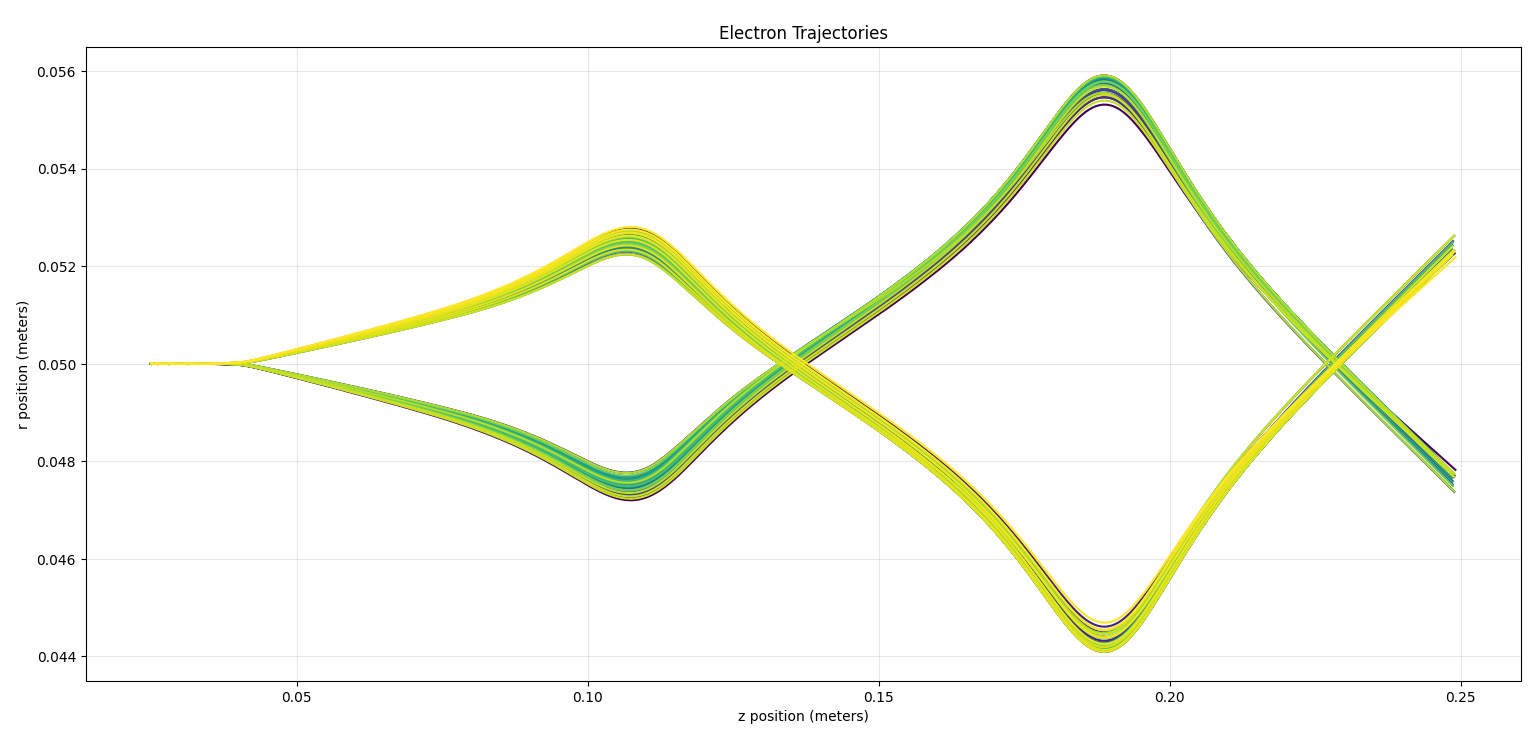
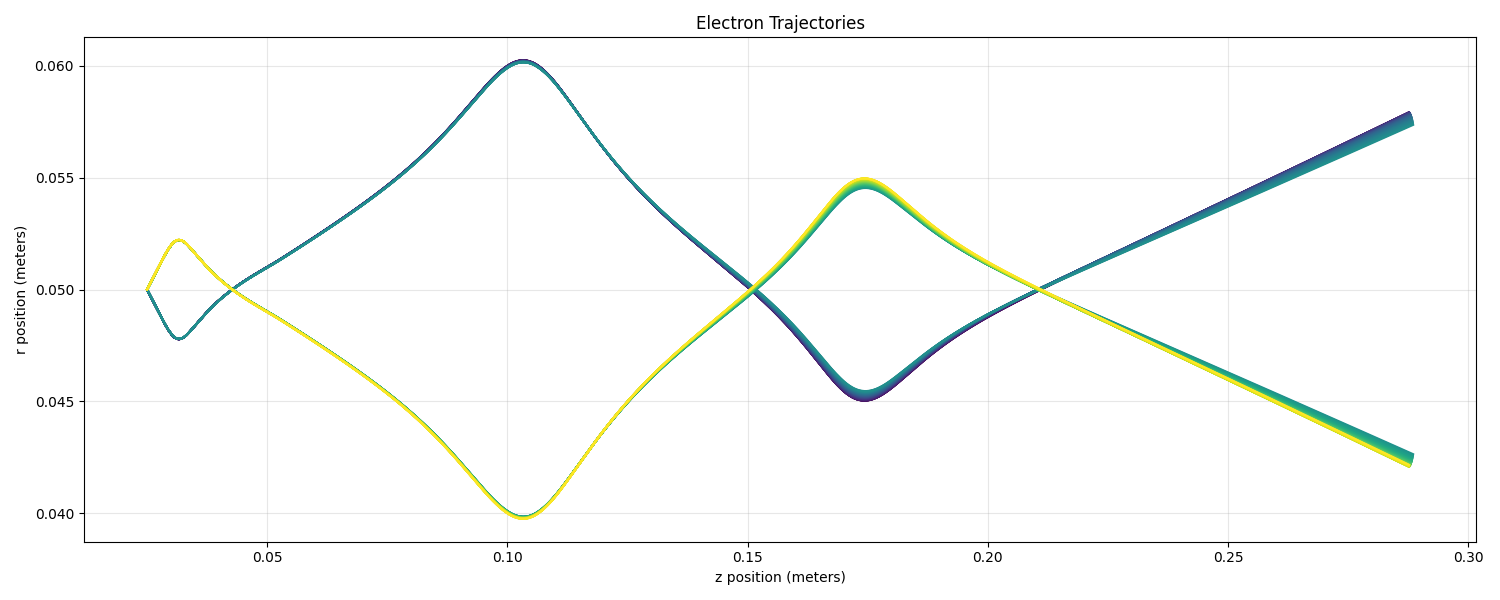
push

diff --git a/Electron Column/sem.py b/Electron Column/sem.py
@@ -2,7 +2,7 @@ import numpy as np
 from picht import IonOpticsSystem, ElectrodeConfig
 import matplotlib.pyplot as plt
 
-system = IonOpticsSystem(nr=100, nz=600, axial_size=0.6, radial_size = 0.1) #all grid units are in mm.
+system = IonOpticsSystem(nr=100, nz=400, axial_size=0.4, radial_size = 0.1)
 
 
 wehnelt1 = ElectrodeConfig(
@@ -16,24 +16,24 @@ wehnelt1 = ElectrodeConfig(
 wehnelt2 = ElectrodeConfig(
     start=30,
     width=5,
-    ap_start=40,
-    ap_width=20,
+    ap_start=45,
+    ap_width=10,
     outer_diameter = 50,
     voltage=-5100
 )
 system.add_electrode(wehnelt1)
 system.add_electrode(wehnelt2)
 anode = ElectrodeConfig(
-    start=40,
+    start=50,
     width = 2,
-    ap_start=48,
-    ap_width=4,
+    ap_start=49,
+    ap_width=2,
     outer_diameter = 50,
     voltage=0
 )
 cathode = ElectrodeConfig(
-    start=22,
-    width = 2,
+    start=24,
+    width = 1,
     ap_start=50,
     ap_width=0,
     outer_diameter = 2,
@@ -41,36 +41,39 @@ cathode = ElectrodeConfig(
 )
 
 system.add_electrode(anode)
-system.add_einzel_lens(
-    position=80.0,
-    width=60.0,
-    aperture_center=50.0,
-    aperture_width=48.0,
-    outer_diameter=50.0,
-    focus_voltage=-7000
-)
+system.add_electrode(cathode)
+
 
 system.add_einzel_lens(
-    position=160.0,
-    width=60.0,
+    position= 70.0,
+    width=70.0,
     aperture_center=50.0,
     aperture_width=48.0,
     outer_diameter=50.0,
-    focus_voltage=-6500
+    focus_voltage=-7200
 )
+system.add_einzel_lens(
+    position= 142.0,
+    width=63.0,
+    aperture_center=50.0,
+    aperture_width=48.0,
+    outer_diameter=50.0,
+    focus_voltage=-10000
+)
+
+
 potential = system.solve_fields()
 
 trajectories = system.simulate_beam(
-    energy_eV= 10,  
+    energy_eV= 0.1,  
     start_z=0.025,
     r_range=(0.0499925, 0.0500075),
     angle_range=(-2, 2),
-    num_particles=6,
+    num_particles=100,
     simulation_time=1e-8
 )
 
 figure = system.visualize_system(
-    trajectories=trajectories,
-    r_limits = (0.049, 0.051))
+    trajectories=trajectories)
 
 plt.show()
